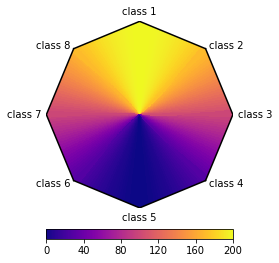
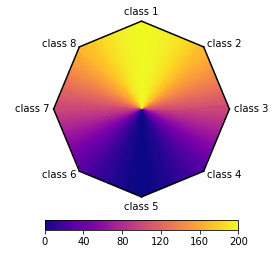
automatic colorbar padding

Changed region(s): [[0.0291, 0.0276, 0.9018, 0.9921], [0.4073, 0.3307, 0.5818, 0.5236], [0.7564, 0.3858, 0.9891, 0.6339]]

diff --git a/multi_bary_plot/multi_bary_plot.py b/multi_bary_plot/multi_bary_plot.py
@@ -21,7 +21,7 @@ class multi_bary_plot:
     value_column : string
         The name of the value coumn in `data`.
     res : int
-        The number of pixel along one axis.
+        The number of pixel along one axes.
 
     Returns
     -------
@@ -56,21 +56,17 @@ class multi_bary_plot:
             self.values = data[value_column].values
         norm = np.sum(coords.values, axis=1, keepdims=True)
         ind = np.sum(np.isnan(coords), axis=1)==0
-        ind = np.logical_and(ind, ~np.isnan(self.values))
         ind = np.logical_and(ind, (norm!=0).flatten())
-        self.values = self.values[ind]
+        if self.values is not None:
+            ind = np.logical_and(ind, ~np.isnan(self.values))
+            self.values = self.values[ind]
         norm = norm[ind]
         coords = coords[ind]
         self.coords = coords.values / norm
         self.vertNames = list(coords.columns.values)
         self.nverts = self.coords.shape[1]
-        self.colorbar_pad = .1
         if self.nverts < 3:
             raise ValueError('At least three dimensions are needed.')
-        if self.nverts == 3:
-            self.colorbar_pad = -.5
-        elif (self.nverts & 1) == 0 or self.nverts > 5:
-            self.colorbar_pad = .3
 
     @property
     def grid(self):
@@ -155,18 +151,18 @@ class multi_bary_plot:
         textPos.loc[i[half+1+odd:], 'textHPos']= 'right'
         return textPos
 
-    def draw_polygon(self, axis=None):
-        if axis is None:
+    def draw_polygon(self, axes=None):
+        if axes is None:
             fig = plt.figure()
-            axis = fig.add_subplot(111)
+            axes = fig.add_subplot(111)
         vertices = self.vertices
         for simplex in self.hull:
-            axis.plot(vertices.values[simplex, 0], vertices.values[simplex, 1], 'k-')
+            axes.plot(vertices.values[simplex, 0], vertices.values[simplex, 1], 'k-')
         for index, row in self.textPos.iterrows():
-            axis.text(row['x'], row['y'], index, ha=row['textHPos'], va=row['textVPos'])
-        return axis
+            axes.text(row['x'], row['y'], index, ha=row['textHPos'], va=row['textVPos'])
+        return axes
 
-    def imshow(self, colorbar=True, figure=None, axis=None, **kwargs):
+    def imshow(self, colorbar=True, figure=None, axes=None, **kwargs):
         """
 
         Plots the data in barycentric coordinates and colors pixel
@@ -176,43 +172,48 @@ class multi_bary_plot:
         ----------
         colorbar : bool, optional
             If true a colorbar is plotted on the bottom of the image.
-            Ignored if figure is None and axis is not None.
+            Ignored if figure is None and axes is not None.
         figure : matplotlib.figure, optional
             The figure to plot in.
-        axis : matplotlib.axis, optinal
-            The axis to plot in.
+        axes : matplotlib.axis, optinal
+            The axes to plot in.
         **kwargs
             All keyword arguments are passed on to matplotlib.imshow.
 
         Returns
         -------
-        figure, axis, im
+        figure, axes, im
             The Figure, AxesSubplot and AxesImage of the plot.
 
         """
         if self.values is None:
             raise ValueError('No value column supplied.')
-        if figure is None and axis is not None and colorbar:
-            warnings.warn('Axis but no figure is supplied,'
+        if figure is None and axes is not None and colorbar:
+            warnings.warn('axes but no figure is supplied,'
                           + ' so a colorbar cannot be returned.')
             colorbar = False
-        elif figure is None and axis is None:
+        elif figure is None and axes is None:
             figure = plt.figure()
-        if axis is None:
-            axis = figure.add_subplot(111)
-        axis.set_aspect('equal', 'datalim')
-        axis.axis('off')
-        im = axis.imshow(self.plot_values, extent=[-1, 1, -1, 1], **kwargs)
-        axis = self.draw_polygon(axis)
+        if axes is None:
+            axes = figure.add_subplot(111)
+        axes.axis('off')
+        im = axes.imshow(self.plot_values, extent=[-1, 1, -1, 1], **kwargs)
+        axes = self.draw_polygon(axes)
         if colorbar:
-            divider = make_axes_locatable(axis)
-            cax = divider.append_axes('bottom', size='5%', pad=self.colorbar_pad)
+            divider = make_axes_locatable(axes)
+            cax = divider.append_axes('bottom', size='5%', pad=.2)
             ticks = np.linspace(np.min(self.plot_values), np.max(self.plot_values), 6)
             ticks = [float('{:.2g}'.format(i)) for i in ticks]
             figure.colorbar(im, cax=cax, orientation='horizontal', ticks=ticks)
-        return figure, axis, im
+        v = self.vertices
+        xlen =  v['x'].max() - v['x'].min()
+        axes.set_xlim([v['x'].min()-(xlen*.05), v['x'].max()+(xlen*.05)])
+        ylen =  v['y'].max() - v['y'].min()
+        axes.set_ylim([v['y'].min()-(ylen*.05), v['y'].max()+(ylen*.05)])
+        axes.set_aspect('equal')
+        return figure, axes, im
 
-    def scatter(self, color=None, colorbar=None, figure=None, axis=None, **kwargs):
+    def scatter(self, color=None, colorbar=None, figure=None, axes=None, **kwargs):
         """
 
         Plots the data in barycentric coordinates.
@@ -224,17 +225,17 @@ class multi_bary_plot:
             is given.
         colorbar : bool, optional
             If true a colorbar is plotted on the bottom of the image.
-            Ignored if figure is None and axis is not None.
+            Ignored if figure is None and axes is not None.
         figure : matplotlib.figure, optional
             The figure to plot in.
-        axis : matplotlib.axis, optinal
-            The axis to plot in.
+        axes : matplotlib.axis, optinal
+            The axes to plot in.
         **kwargs
             All keyword arguments are passed on to matplotlib.imshow.
 
         Returns
         -------
-        figure, axis, pc
+        figure, axes, pc
             The Figure, AxesSubplot and PathCollection of the plot.
 
         """
@@ -248,31 +249,31 @@ class multi_bary_plot:
             colorbar = True
         elif colorbar is None:
             colorbar = False
-        if figure is None and axis is not None and colorbar:
-            warnings.warn('Axis but no figure is supplied,'
+        if figure is None and axes is not None and colorbar:
+            warnings.warn('axes but no figure is supplied,'
                           + ' so a colorbar cannot be returned.')
             colorbar = False
-        elif figure is None and axis is None:
+        elif figure is None and axes is None:
             figure = plt.figure()
-        if axis is None:
-            axis = figure.add_subplot(111)
-        axis.set_aspect('equal', 'datalim')
-        axis.axis('off')
+        if axes is None:
+            axes = figure.add_subplot(111)
+        axes.set_aspect('equal', 'datalim')
+        axes.axis('off')
         df = self.df
         if color:
-            pc = axis.scatter(df['x'], df['y'], c=df['val'], **kwargs)
+            pc = axes.scatter(df['x'], df['y'], c=df['val'], **kwargs)
         else:
-            pc = axis.scatter(df['x'], df['y'], **kwargs)
-        axis = self.draw_polygon(axis)
+            pc = axes.scatter(df['x'], df['y'], **kwargs)
+        axes = self.draw_polygon(axes)
         if colorbar:
-            divider = make_axes_locatable(axis)
+            divider = make_axes_locatable(axes)
             cax = divider.append_axes('bottom', size='5%', pad=.2)
             ticks = np.linspace(np.min(self.plot_values), np.max(self.plot_values), 6)
             ticks = [float('{:.2g}'.format(i)) for i in ticks]
             figure.colorbar(pc, cax=cax, orientation='horizontal', ticks=ticks)
-        return figure, axis, pc
+        return figure, axes, pc
 
-    def plot(self, figure=None, axis=None, **kwargs):
+    def plot(self, figure=None, axes=None, **kwargs):
         """
 
         Plots the data in barycentric coordinates.
@@ -281,24 +282,24 @@ class multi_bary_plot:
         ----------
         figure : matplotlib.figure, optional
             The figure to plot in.
-        axis : matplotlib.axis, optinal
-            The axis to plot in.
+        axes : matplotlib.axis, optinal
+            The axes to plot in.
         **kwargs
             All keyword arguments are passed on to matplotlib.imshow.
 
         Returns
         -------
-        figure, axis, ll
+        figure, axes, ll
             The Figure, AxesSubplot and list of Line2D of the plot.
 
         """
-        if figure is None and axis is None:
+        if figure is None and axes is None:
             figure = plt.figure()
-        if axis is None:
-            axis = figure.add_subplot(111)
-        axis.set_aspect('equal', 'datalim')
-        axis.axis('off')
+        if axes is None:
+            axes = figure.add_subplot(111)
+        axes.set_aspect('equal', 'datalim')
+        axes.axis('off')
         df = self.df
-        ll = axis.plot(df['x'], df['y'], **kwargs)
-        axis = self.draw_polygon(axis)
-        return figure, axis, ll
+        ll = axes.plot(df['x'], df['y'], **kwargs)
+        axes = self.draw_polygon(axes)
+        return figure, axes, ll
